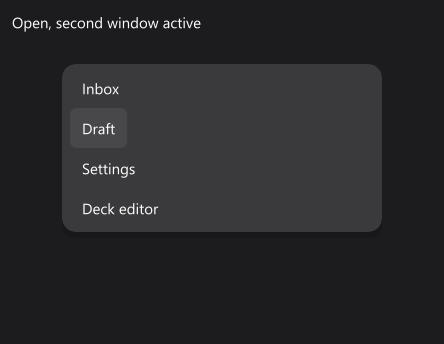
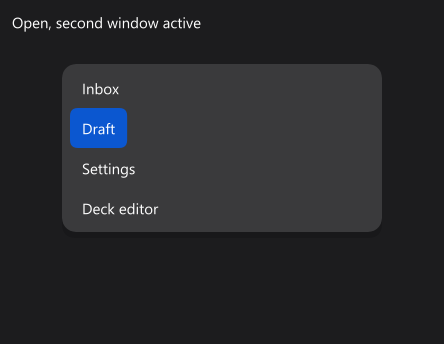
Cupertino window_switcher active row; round 86 second pass notes

Changed region(s): [[0.1464, 0.2907, 0.2928, 0.436]]

diff --git a/docs/ui/looks/cupertino-complete-y.md b/docs/ui/looks/cupertino-complete-y.md
@@ -102,3 +102,13 @@ Viewed at 1.5x light and dark (1x only where noted above): spin_edit, time_picke
 Defect found in the harness: `looks.aim` persists across the looks of one run, so an aim set for the Cupertino look leaks into the Material look that follows (it changed Material time_picker and document_tabs); both sheets now reset it for every other look.
 
 Regression: 28 sheet apps re-rendered one at a time (time_picker, autocomplete, banner, sheet, navigation_split, dock_panel, workspace, wizard, title_bar, accordion, breadcrumbs, navigation_rail, popup_menu, combo_box, link, rich_tooltip, calendar, font_picker, date_range_picker, pagination, sidebar, toolbar, data_grid, tree_list, status_bar, menu_bar, button, card; plus the changed apps): no Neper, Linux, Windows or Material picture moved, except Windows Dark dock_panel, which is stale on master (audit 44) and was restored. workspace (Cupertino) changed with the tab pill and was committed after viewing.
+
+### Round 86, second pass (coordinator follow-up)
+
+Raised to `ready` (both looks): bottom_sheet (Save fill 0A60FF / 0B57D0, white 5.1:1 and 6.4:1; the sheet is the iOS modal idiom, rounded top, grabber, dimmed backdrop), ribbon (now a macOS toolbar: segmented tab strip with the chosen tab a raised pill, a toolbar items row without group captions or dialog launchers, the contextual band a plain section label, Save and Undo in 0040DD / 409CFF), rich_tooltip (flat plate, white on the light ground and 2C2C2E dark, no hard shadow line; links 7.6:1 light). Viewed at 1x and 1.5x, light and dark.
+
+Reshaped, not raised: sheet (spreadsheet idiom with Cupertino tokens: the first column fits the longest card name, header row in the system fill; the disabled, hover and pressed cells still draw like rest, so not raised), notification_list (tinted links; the three-notice cell cuts the third row mid-text, the close glyph is tiny, the info disc is a tonal Material circle), window_switcher (the active row now takes the accent as in the palette; the light panel still has a hard shadow band under it).
+
+Viewed at 1x light and dark and left at `review`, with the reason: empty_state (the filled button needs a dark blue and the Import link a different one in dark; one control, one Primary), avatar (tertiary container peach discs are Material, not the grey monogram of iOS), icon (the systemOrange warning role is 2.1:1 on the light ground), markdown_view (two sheets in one app, links 3.6:1; tint not done), code_editor (orange keywords about 2:1 on white), canvas (the small cell's frame clips the bars with a curve), speed_dial, range_slider, dial, autocomplete, banner, key_caps as in the first pass. Not viewed: about 35 further generic rows (terminal_view, image, schedule, flow_editor, popover, flyout, side_sheet, table, tree_table, bottom_app_bar, toolbar, navigation_stack, navigation_split, navigation_drawer, navigation_rail, sidebar, breadcrumbs, dock_panel, workspace, wizard, title_bar, accordion, scroll_area, grid_view, carousel, pagination, page_view, pull_to_refresh, reorderable_list, key_value_editor, shortcut_recorder, font_picker, color_picker, calendar, date_range_picker, gauge, level, stepper).
+
+Regression: 34 sheet apps re-rendered one at a time (f_ribbon, f_command_palette, f_document_tabs, toast, f_window_switcher, autocomplete, banner, navigation_split, dock_panel, workspace, wizard, title_bar, accordion, breadcrumbs, navigation_rail, popup_menu, combo_box, link, calendar, font_picker, date_range_picker, pagination, sidebar, toolbar, data_grid, tree_list, status_bar, menu_bar, button, card, key_caps, icon, avatar, empty_state): no Neper, Linux, Windows or Material picture moved, except Windows Dark dock_panel (stale on master since audit 44, restored). The Neper bottom_sheet pictures are also stale on master (the committed file differs from what the code draws with or without this change) and were restored, not committed.
